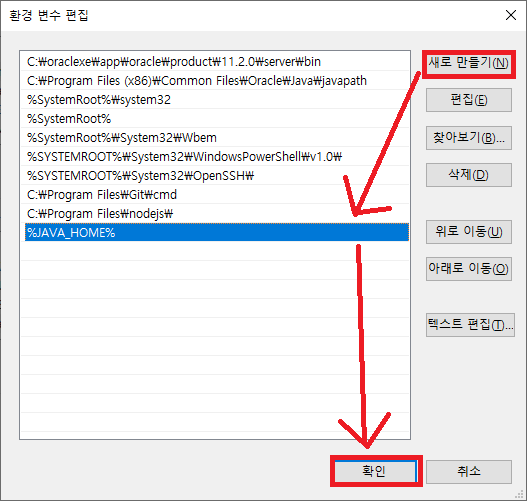
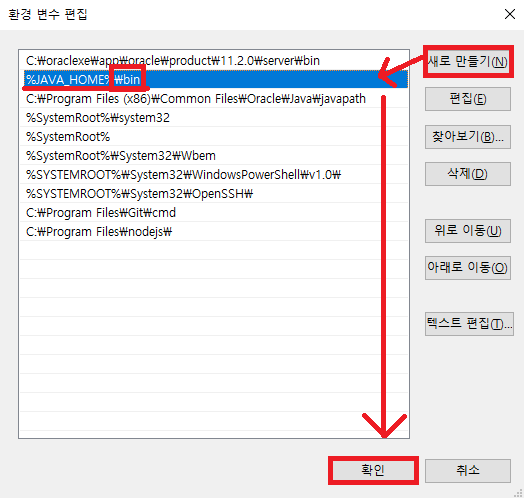
개발환경 구축 modify

diff --git a/개발환경구축/JDK설치/Window/window_JDK.md b/개발환경구축/JDK설치/Window/window_JDK.md
@@ -86,7 +86,7 @@ JAVA_HOME
 변수값 에 복사한 JDK 경로
 
 ```
-C:\Program Files\Java\jdk1.8.0_241\bin
+C:\Program Files\Java\jdk1.8.0_241
 ```
 
 를 입력합니다.
@@ -126,7 +126,7 @@ Path를 수정 할 수 있도록 합니다.
 Path에 새롭게 만든 JAVA_HOME 변수를 추가해줍니다.
 
 ```
-%JAVA_HOME%
+%JAVA_HOME%\bin
 ```
 
 위와 같이 입력하거나,
